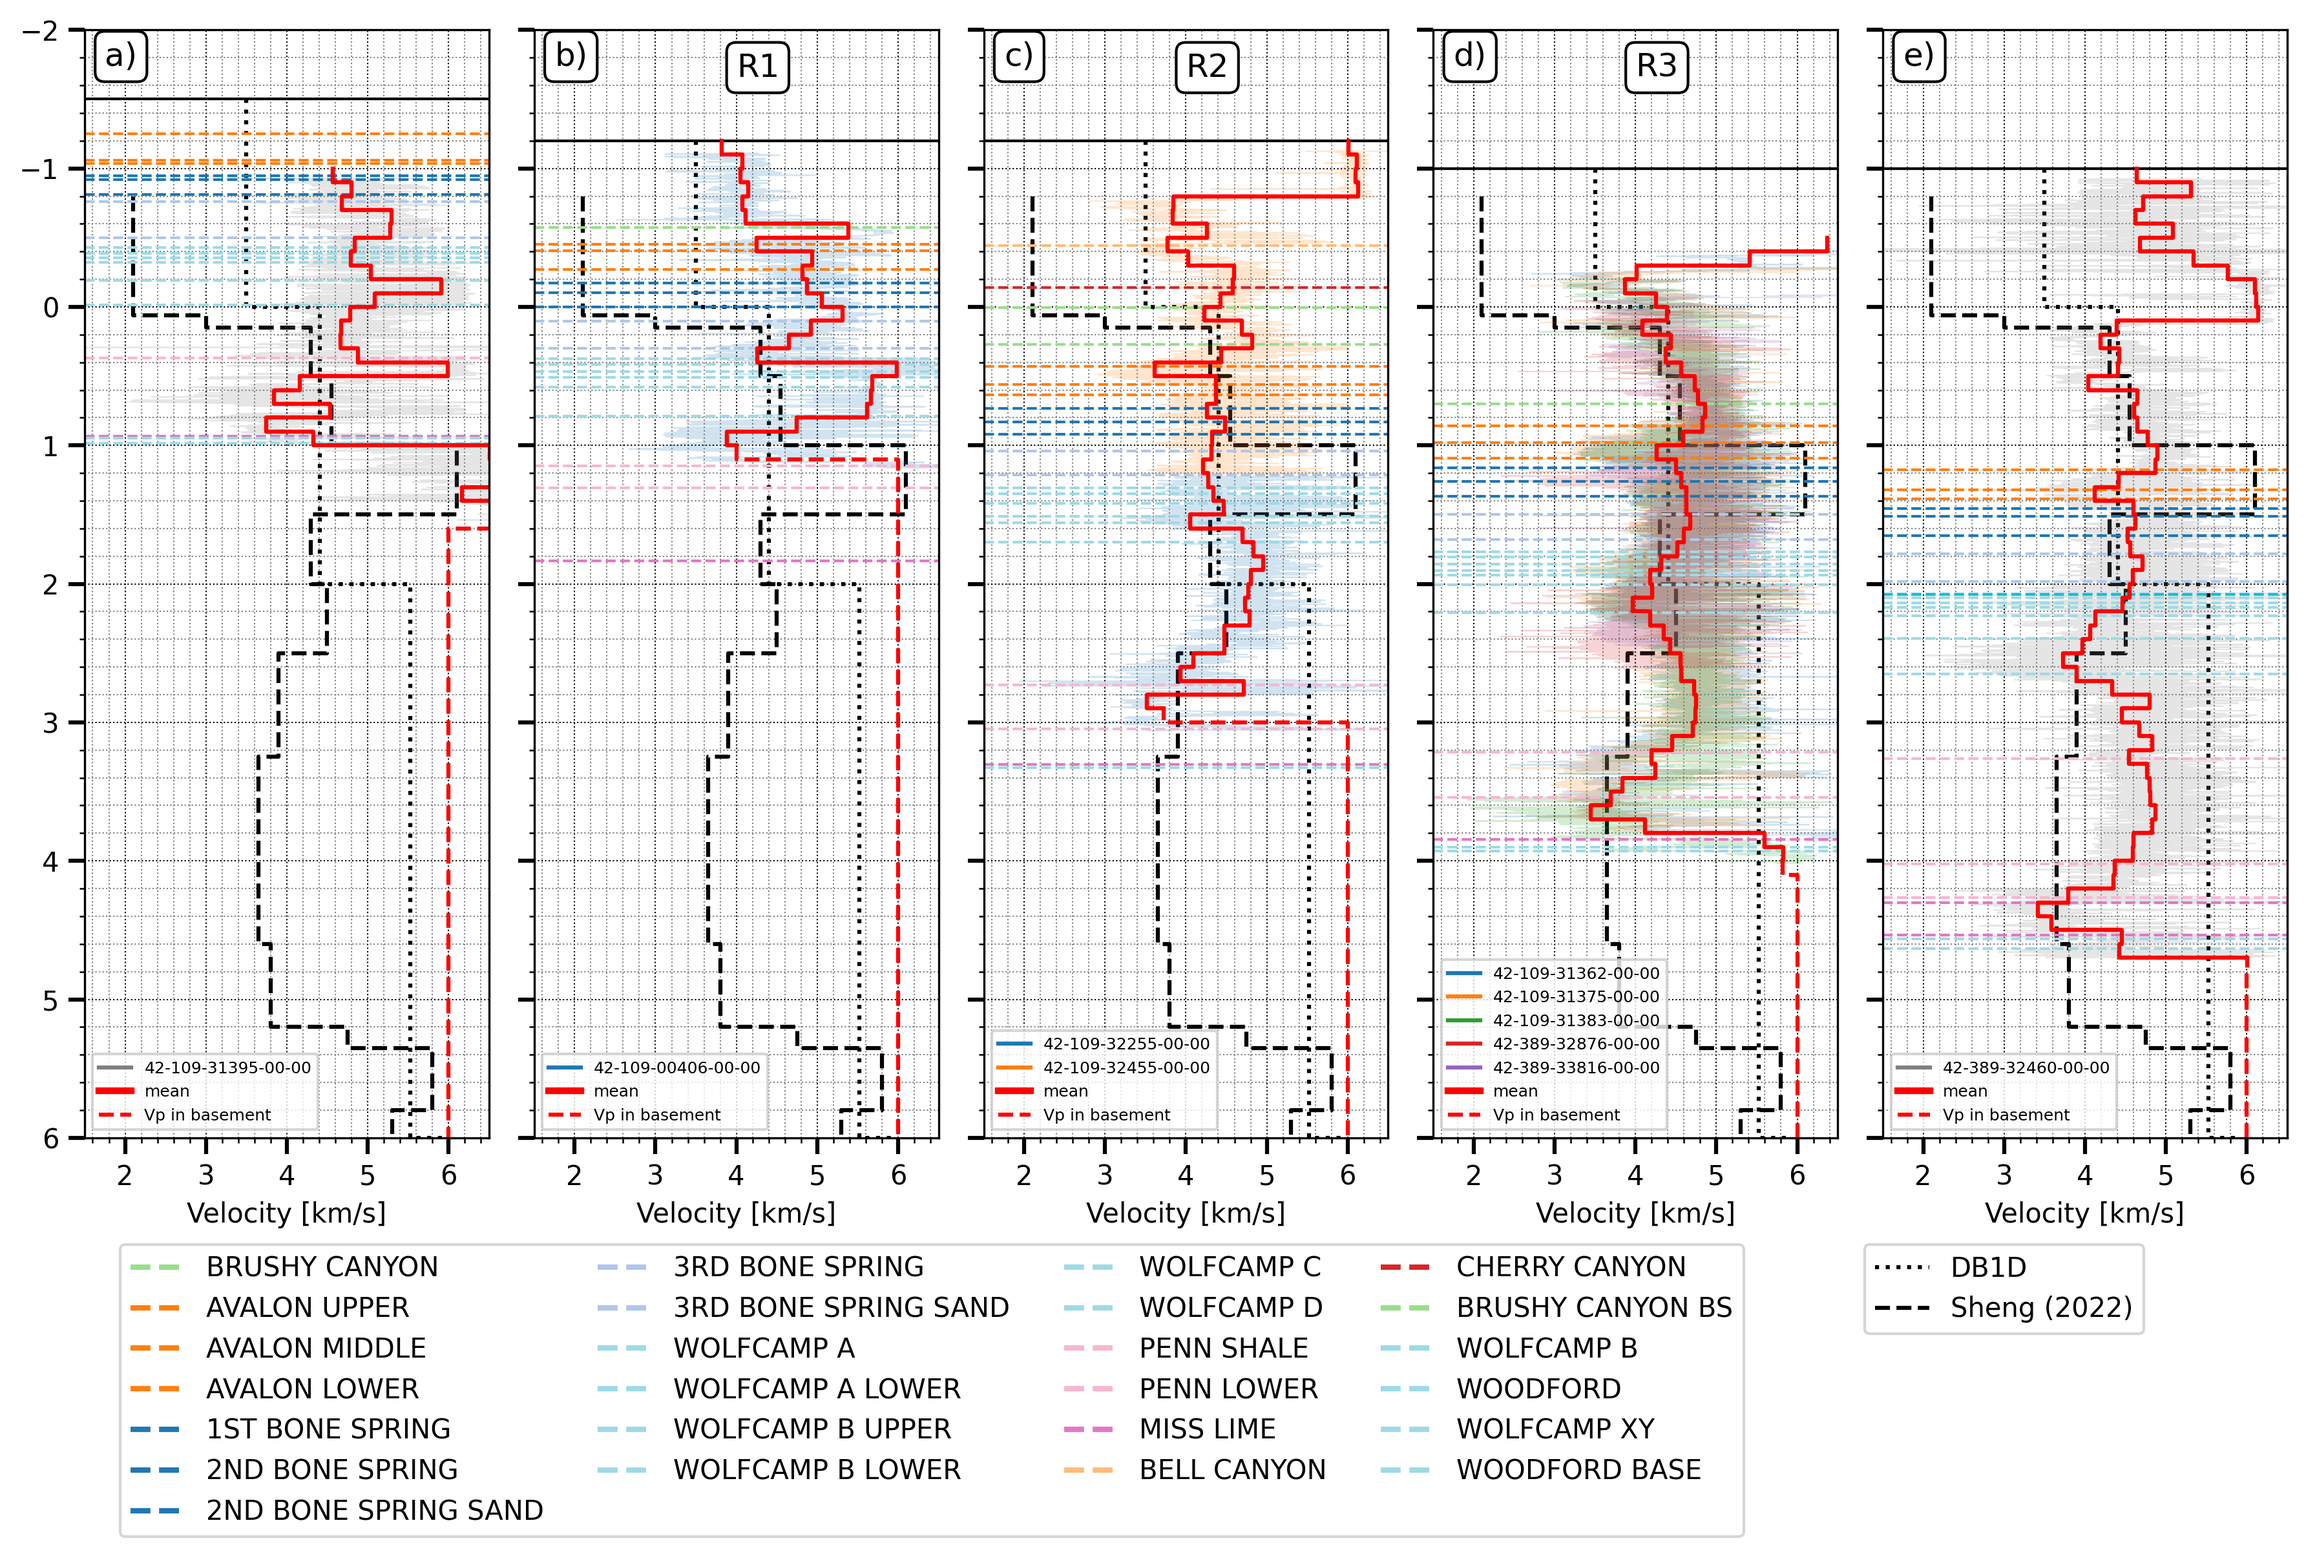
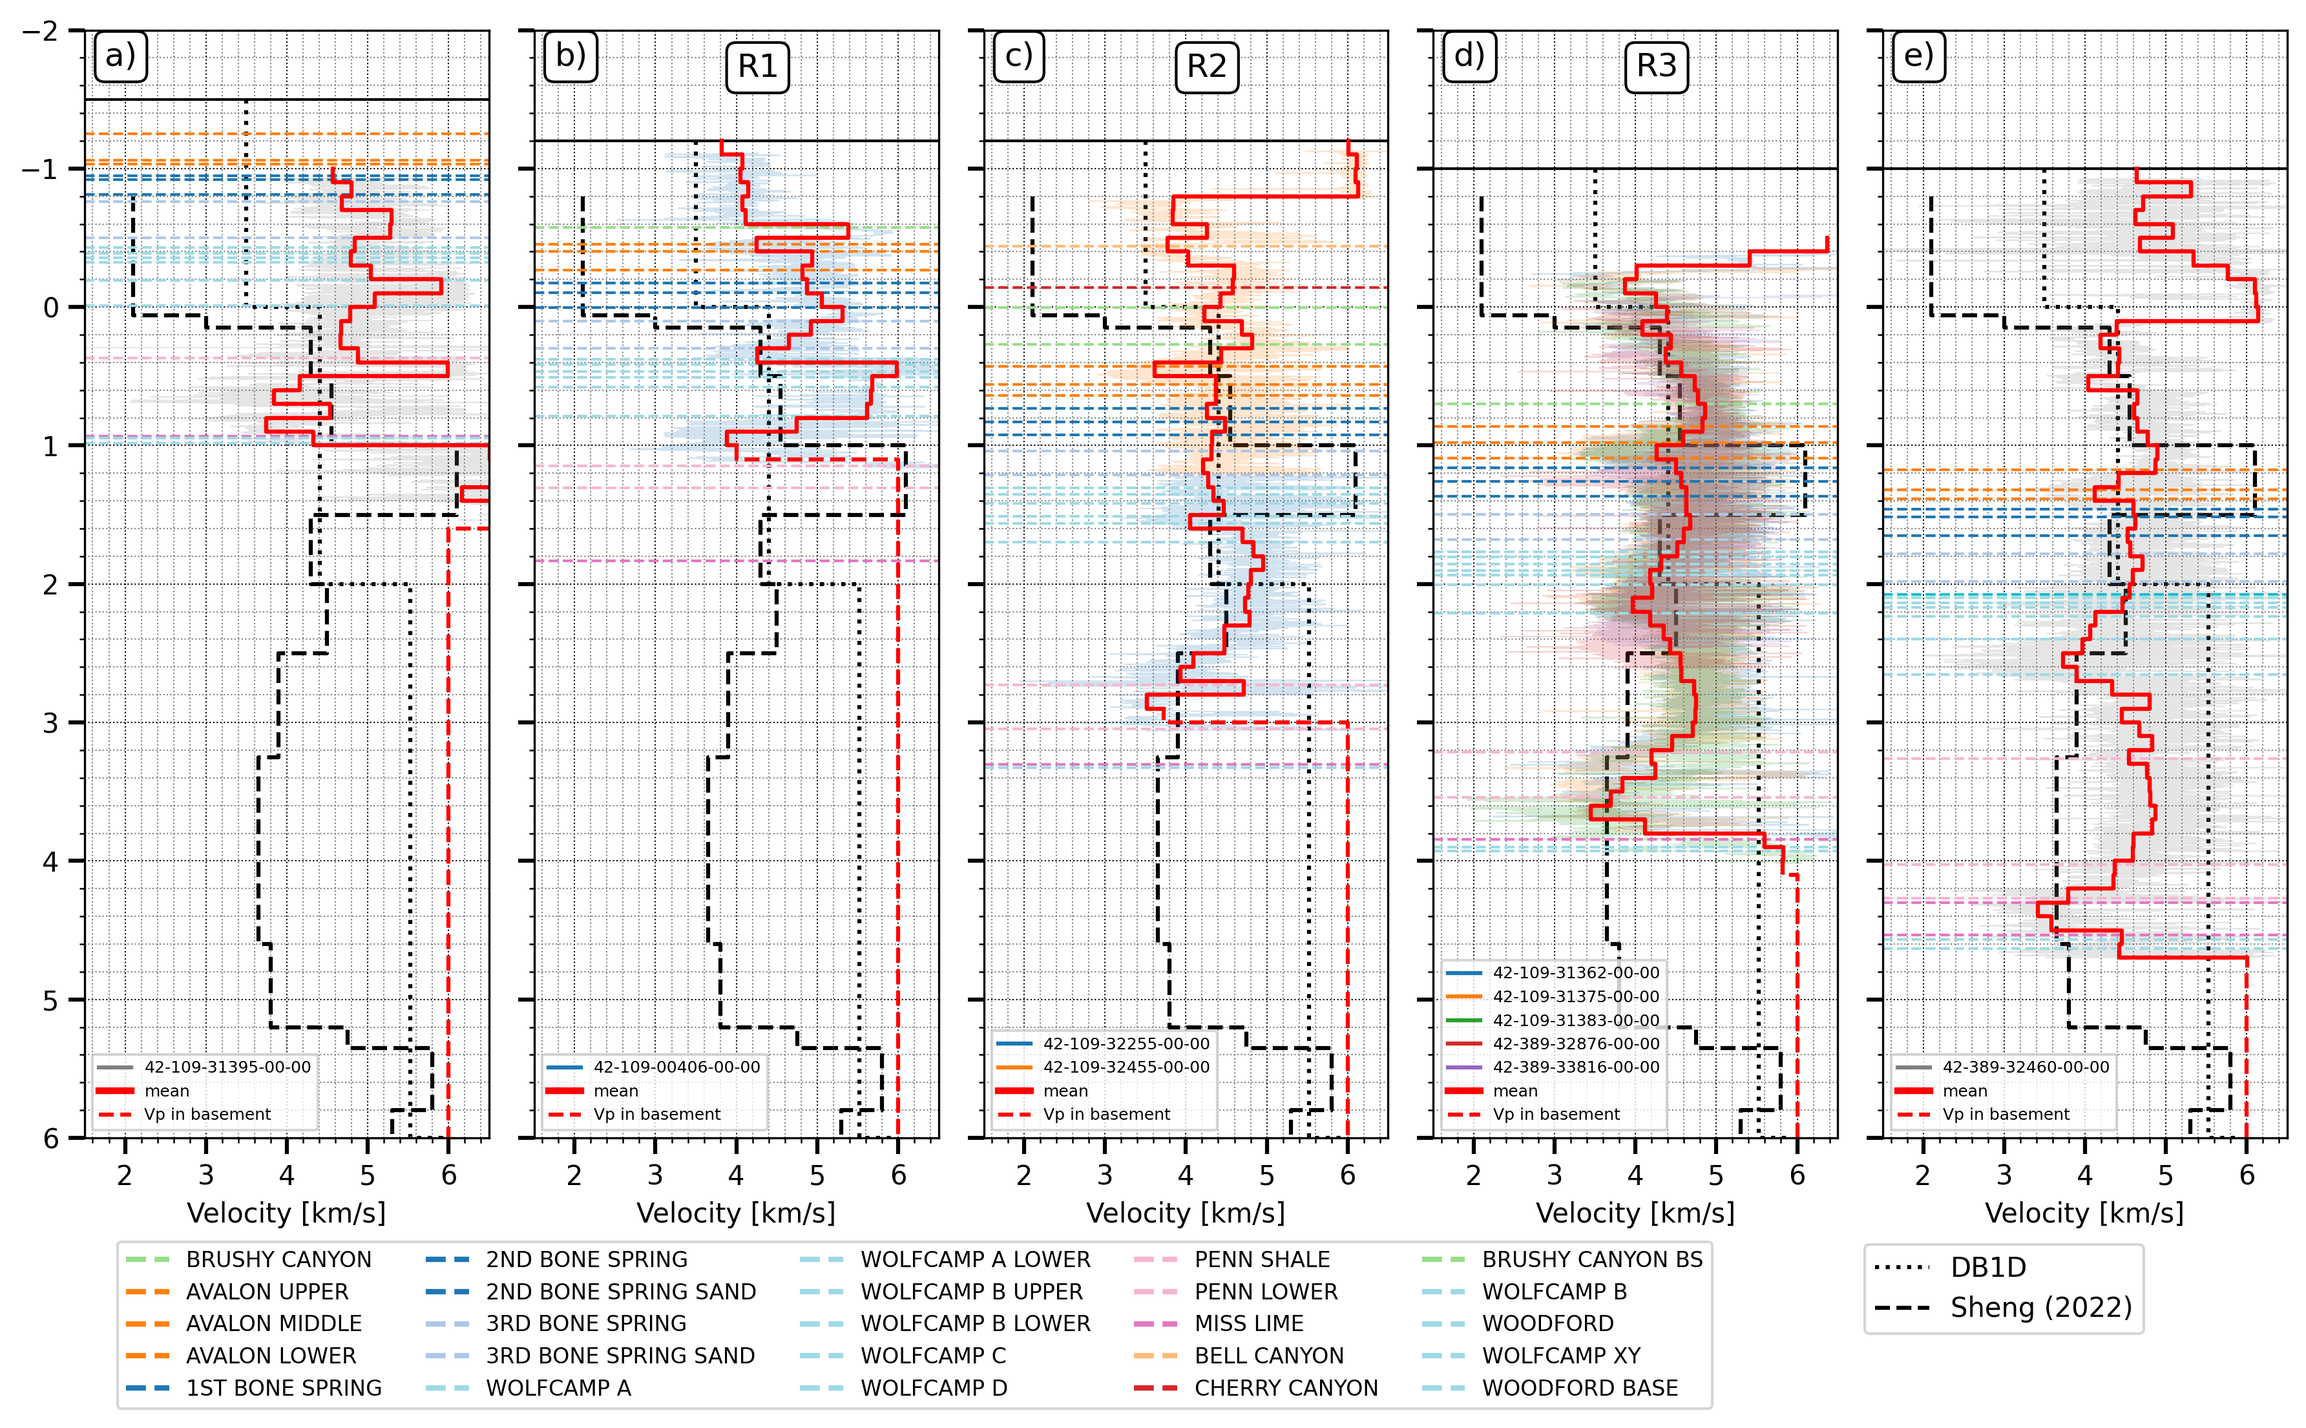
vp

Changed region(s): [[0.0311, 0.0, 0.9952, 0.9991], [0.0311, 0.3747, 0.0622, 0.4059]]

diff --git a/02032024/project/vp/sonic.py b/02032024/project/vp/sonic.py
@@ -139,7 +139,7 @@ ax_rr1,lg1_rr1,lg2_rr1 = well_fig(data_rr1,formations,form_rr1,
 # Sort and add legend for formations.
 global_legend_handles = {k: v for d in [lg1_1,lg1_2,lg1_3] for k, v in d.items()}
 fig.legend(handles=list(global_legend_handles.values()), loc="upper left",
-           fontsize=10, ncol=4, bbox_to_anchor=(0.05, 0.2))
+           fontsize=8, ncol=5, bbox_to_anchor=(0.05, 0.2))
 # Add velocity model legend to the figure.
 fig.legend(handles=lg2_3, loc="upper left", fontsize=10, ncol=1, bbox_to_anchor=(0.8, 0.2))
 
